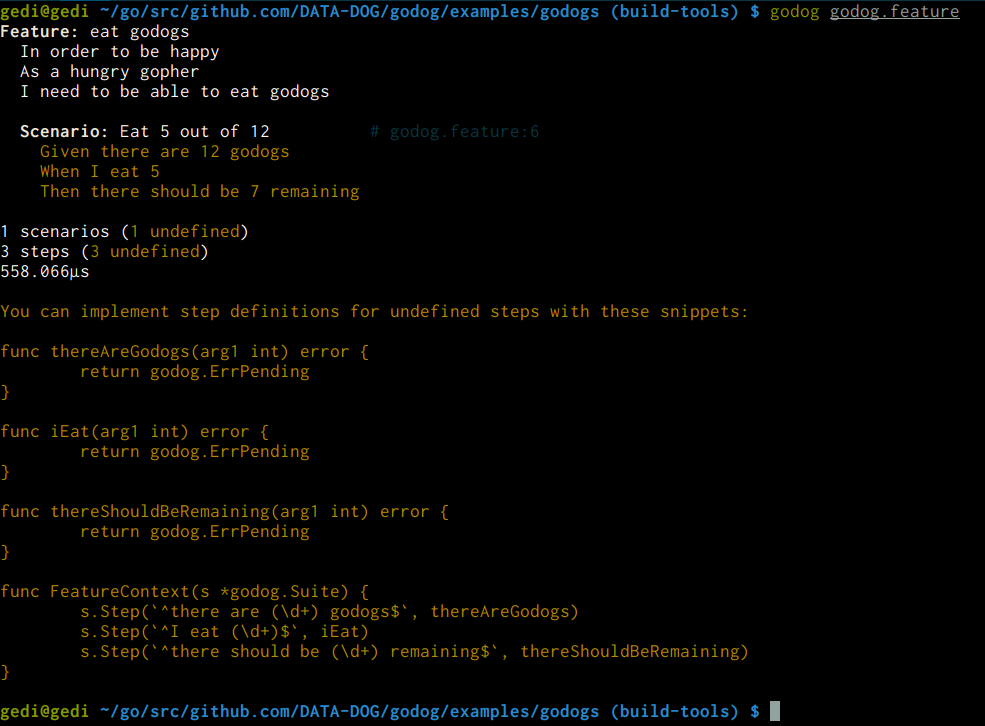
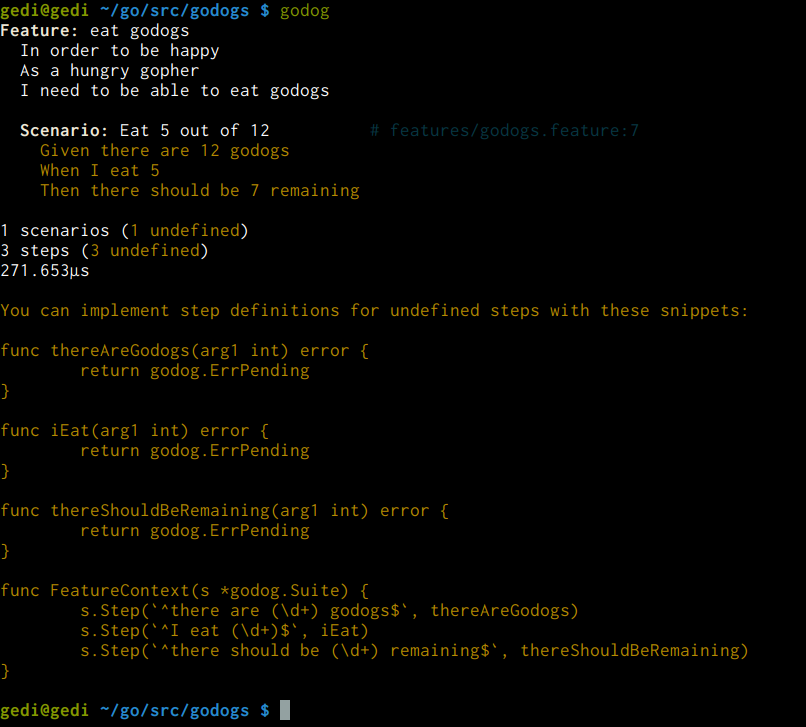
update godog usage example with more details

diff --git a/examples/godogs/godogs.go b/examples/godogs/godogs.go
@@ -1,7 +1,7 @@
-/* file: examples/godogs/godog.go */
+/* file: $GOPATH/src/godogs/godogs.go */
 package main
 
-// Godogs to eat
+// Godogs available to eat
 var Godogs int
 
 func main() { /* usual main func */ }

diff --git a/examples/godogs/godogs_test.go b/examples/godogs/godogs_test.go
@@ -1,4 +1,4 @@
-/* file: examples/godogs/godog_test.go */
+/* file: $GOPATH/src/godogs/godogs_test.go */
 package main
 
 import (

diff --git a/README.md b/README.md
@@ -3,7 +3,7 @@
 
 # Godog
 
-<p align="center"><img src="https://raw.github.com/DATA-DOG/godog/master/logo.png" alt="Godog logo" style="width:250px;" /></p>
+<p align="center"><img src="/logo.png" alt="Godog logo" style="width:250px;" /></p>
 
 **The API is likely to change a few times before we reach 1.0.0**
 
@@ -64,15 +64,19 @@ themselves from costly regressions.
 ### Example
 
 The following example can be [found
-here](https://github.com/DATA-DOG/godog/tree/master/examples/godogs).
+here](/examples/godogs).
 
 #### Step 1
 
-Imagine we have a **godog cart** to serve godogs for dinner. At first, we describe our feature
-in plain text:
+Given we create a new go package **$GOPATH/src/godogs**. From now on, this
+is our work directory `cd $GOPATH/src/godogs`.
+
+Imagine we have a **godog cart** to serve godogs for lunch. First of all,
+we describe our feature in plain text - `vim
+$GOPATH/src/godogs/features/godogs.feature`:
 
 ``` gherkin
-# file: examples/godogs/godog.feature
+# file: $GOPATH/src/godogs/features/godogs.feature
 Feature: eat godogs
   In order to be happy
   As a hungry gopher
@@ -87,18 +91,37 @@ Feature: eat godogs
 As a developer, your work is done as soon as you’ve made the program behave as
 described in the Scenario.
 
+**NOTE:** same as **go test** godog respects package level isolation. All
+your step definitions should be in your tested package root directory. In
+this case - `$GOPATH/src/godogs`
+
 #### Step 2
 
-If you run `godog godog.feature` inside the **examples/godogs** directory.
-You should see that the steps are undefined:
+If godog is installed in your GOPATH. We can run `godog` inside the
+**$GOPATH/src/godogs** directory. You should see that the steps are
+undefined:
 
-![Screenshot](https://raw.github.com/DATA-DOG/godog/master/screenshots/undefined.png)
+![Undefined step snippets](/screenshots/undefined.png?raw=true)
 
-It gives you undefined step snippets to implement in your test context. You may copy these snippets
-into your `*_test.go` file.
+If we wish to vendor godog dependency, we can do it as usual, using tools
+you prefer:
 
-Now if you run the tests again you should see that the definition is now pending. You may change
-**ErrPending** to **nil** and the scenario will pass successfully.
+    git clone https://github.com/DATA-DOG/godog.git $GOPATH/src/godogs/vendor/github.com/DATA-DOG/godog
+
+It gives you undefined step snippets to implement in your test context.
+You may copy these snippets into your `godogs_test.go` file.
+
+Our directory structure should now look like:
+
+![Directory layout](/screenshots/dir-tree.png?raw=true)
+
+If you copy the snippets into our test file and run godog again. We should
+see the step definition is now pending:
+
+![Pending step definition](/screenshots/pending.png?raw=true)
+
+You may change **ErrPending** to **nil** and the scenario will
+pass successfully.
 
 Since we need a working implementation, we may start by implementing only what is necessary.
 
@@ -107,10 +130,10 @@ Since we need a working implementation, we may start by implementing only what i
 We only need a number of **godogs** for now. Lets keep it simple.
 
 ``` go
-/* file: examples/godogs/godog.go */
+/* file: $GOPATH/src/godogs/godogs.go */
 package main
 
-// Godogs to eat
+// Godogs available to eat
 var Godogs int
 
 func main() { /* usual main func */ }
@@ -122,7 +145,7 @@ Now lets implement our step definitions, which we can copy from generated
 console output snippets in order to test our feature requirements:
 
 ``` go
-/* file: examples/godogs/godog_test.go */
+/* file: $GOPATH/src/godogs/godogs_test.go */
 package main
 
 import (
@@ -162,9 +185,9 @@ func FeatureContext(s *godog.Suite) {
 }
 ```
 
-Now when you run the `godog godog.feature` again, you should see:
+Now when you run the `godog` again, you should see:
 
-![Screenshot](https://raw.github.com/DATA-DOG/godog/master/screenshots/passed.png)
+![Passed suite](/screenshots/passed.png?raw=true)
 
 **Note:** we have hooked to **BeforeScenario** event in order to reset state. You may hook into
 more events, like **AfterStep** to test against an error and print more details about the error
@@ -182,12 +205,13 @@ See `godog -h` for general command options.
 
 See implementation examples:
 
-- [rest API server](https://github.com/DATA-DOG/godog/tree/master/examples/api)
-- [godogs](https://github.com/DATA-DOG/godog/tree/master/examples/godogs)
+- [rest API server](/examples/api)
+- [rest API with Database](/examples/db)
+- [godogs](/examples/godogs)
 
 ### FAQ
 
-**Q:** Where can I configure common options globally?  
+**Q:** Where can I configure common options globally?
 **A:** You can't. Alias your common or project based commands: `alias godog-wip="godog --format=progress --tags=@wip"`
 
 ### Contributions
